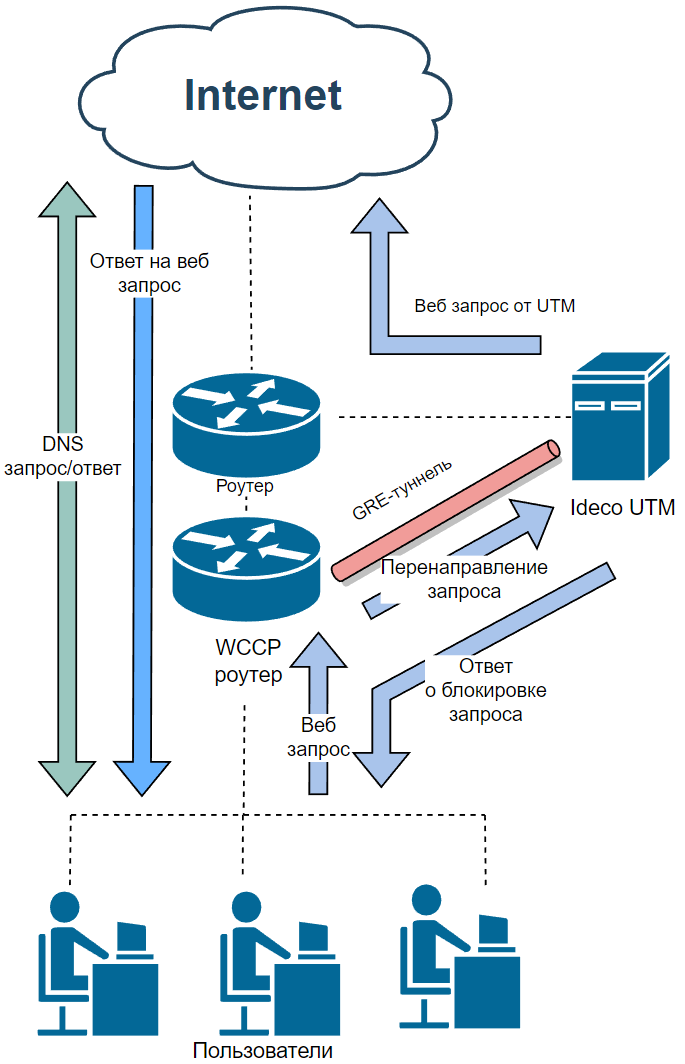
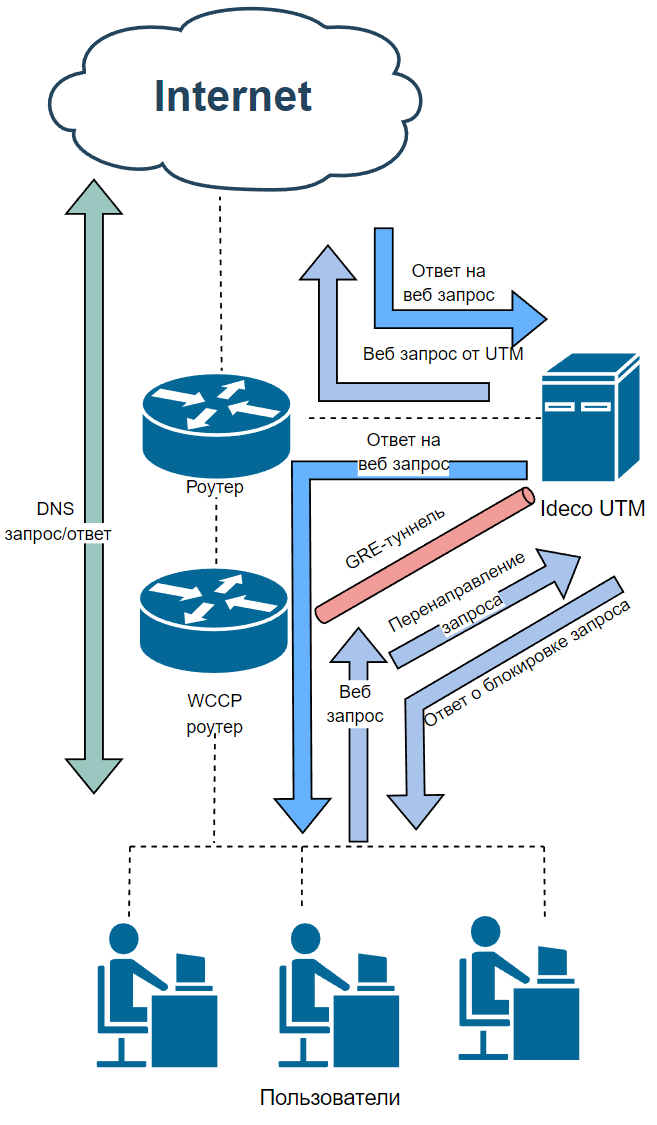
ICS-28492 УТМ. Добавить поддержку WCCP в прокси-сервер

diff --git a/settings/services/proxy/README.md b/settings/services/proxy/README.md
@@ -54,7 +54,7 @@ description: >-
 
 Протокол WCCP используется на маршрутизаторах и кэширующих серверах для перенаправления трафика в сети. 
 
-DNS запросы принимаются и отправляются роутером минуя Ideco UTM. Веб-запросы обрабатываются роутером в соответствии с уровнем WCCP.
+Трафик отличный от HTTP/HTTPS не перенаправляется на Ideco UTM. Веб-запросы обрабатываются роутером в соответствии с уровнем WCCP.
 
 Для активации WCCP переведите опцию **Включить перенаправление трафика c WCCP серверов на Ideco UTM** в положение **Включен**. Ideco UTM запустит процесс согласования параметров с WCCP сервером.
 
@@ -62,13 +62,15 @@ DNS запросы принимаются и отправляются роуте
 
 ![](../../../.gitbook/assets/proxy-server8.png)
 
-Укажите значение от 1 до 10000 в поле **Вес** для приоритизации Ideco UTM в выборе перенаправления трафика WCCP-сервером.
+Если роутер использует несколько Ideco UTM, то настроить распределение трафика можно с помощью указания приоритета в поле **Вес**. Допустимые значения от 1 до 10000.
 
 Для добавления WCCP-сервера нажмите **Добавить** в левом верхнем углу и укажите IP-адрес сервера:
 
 ![](../../../.gitbook/assets/proxy-server7.png)
 
 ### Уровень L2:
+
+Режим L2 используется если роутер и Ideco UTM находятся в одном сетевом сегменте.
 
 ![](../../../.gitbook/assets/proxy-server6.png)
 
@@ -77,13 +79,15 @@ DNS запросы принимаются и отправляются роуте
 * Запрос перенаправляется роутером на Ideco UTM;
 * Ideco UTM обрабатывает запрос. \
   Если запрос заблокирован, то информация о блокировке отправляется обратно пользователю. \
-  Если запрос не заблокирован, то Ideco UTM проверяет включено ли кэширование трафика на диск (опция включается на вкладке **Основное**) и сохранена ли страница в кэше: 
+  Если запрос не заблокирован, то Ideco UTM проверяет включено ли кэширование трафика на диск и сохранена ли страница в кэше: 
   * Кэширование включено и страница в кэше есть, то Ideco UTM отправляет страницу пользователю; 
   * Кэширование выключено или страницы в кэше нет: Ideco UTM подменяет IP-адрес источника и направляет запрос на внешний сервер. 
 
 Ответ возвращается обратно по тому же пути, по которому уходил на внешний сервер.
 
 ### Уровень GRE: 
+
+Режим GRE используется если роутер и Ideco UTM находятся в разных сетевых сегментах.
 
 ![](../../../.gitbook/assets/proxy-server9.png)
 
@@ -92,7 +96,7 @@ DNS запросы принимаются и отправляются роуте
 * Запрос перенаправляется по GRE-туннелю на Ideco UTM;
 * Ideco UTM обрабатывает запрос. \
   Если запрос заблокирован, то информация о блокировке отправляется обратно пользователю. \
-  Если запрос не заблокирован, то Ideco UTM проверяет включено ли кэширование трафика на диск (опция включается на вкладке **Основное**) и сохранена ли страница в кэше:
+  Если запрос не заблокирован, то Ideco UTM проверяет включено ли кэширование трафика на диск и сохранена ли страница в кэше:
   * Кэширование включено и страница в кэше есть, то Ideco UTM отправляет страницу пользователю; 
   * Кэширование выключено или страницы в кэше нет: Ideco UTM подменяет IP-адрес источника и направляет запрос на внешний сервер. 
 
